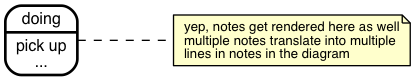
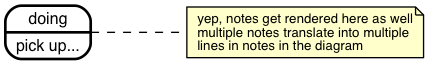
enables multi-line activities and labels in dot output

diff --git a/src/render/dot.template.js b/src/render/dot.template.js
@@ -10,42 +10,26 @@ return templates['dot.template.hbs'] = template({"1":function(container,depth0,h
   return "    \""
     + container.escapeExpression(((helper = (helper = helpers.name || (depth0 != null ? depth0.name : depth0)) != null ? helper : helpers.helperMissing),(typeof helper === "function" ? helper.call(depth0 != null ? depth0 : {},{"name":"name","hash":{},"data":data}) : helper)))
     + "\" [shape=circle style=filled fillcolor=black fixedsize=true height=0.15 label=\"\"]\n";
-},"3":function(container,depth0,helpers,partials,data,blockParams,depths) {
-    var stack1, helper, options, alias1=depth0 != null ? depth0 : {}, alias2=helpers.helperMissing, alias3="function", alias4=container.escapeExpression, alias5=helpers.blockHelperMissing, buffer = 
+},"3":function(container,depth0,helpers,partials,data) {
+    var stack1, helper, options, alias1=depth0 != null ? depth0 : {}, alias2=helpers.helperMissing, alias3="function", alias4=container.escapeExpression, buffer = 
   "    \""
     + alias4(((helper = (helper = helpers.name || (depth0 != null ? depth0.name : depth0)) != null ? helper : alias2),(typeof helper === alias3 ? helper.call(alias1,{"name":"name","hash":{},"data":data}) : helper)))
     + "\" [label=\"{"
     + alias4(((helper = (helper = helpers.name || (depth0 != null ? depth0.name : depth0)) != null ? helper : alias2),(typeof helper === alias3 ? helper.call(alias1,{"name":"name","hash":{},"data":data}) : helper)));
-  stack1 = ((helper = (helper = helpers.activities || (depth0 != null ? depth0.activities : depth0)) != null ? helper : alias2),(options={"name":"activities","hash":{},"fn":container.program(4, data, 0, blockParams, depths),"inverse":container.noop,"data":data}),(typeof helper === alias3 ? helper.call(alias1,options) : helper));
-  if (!helpers.activities) { stack1 = alias5.call(depth0,stack1,options)}
+  stack1 = ((helper = (helper = helpers.activities || (depth0 != null ? depth0.activities : depth0)) != null ? helper : alias2),(options={"name":"activities","hash":{},"fn":container.program(4, data, 0),"inverse":container.noop,"data":data}),(typeof helper === alias3 ? helper.call(alias1,options) : helper));
+  if (!helpers.activities) { stack1 = helpers.blockHelperMissing.call(depth0,stack1,options)}
   if (stack1 != null) { buffer += stack1; }
-  buffer += "}\"]\n";
-  stack1 = ((helper = (helper = helpers.noteName || (depth0 != null ? depth0.noteName : depth0)) != null ? helper : alias2),(options={"name":"noteName","hash":{},"fn":container.program(6, data, 0, blockParams, depths),"inverse":container.noop,"data":data}),(typeof helper === alias3 ? helper.call(alias1,options) : helper));
-  if (!helpers.noteName) { stack1 = alias5.call(depth0,stack1,options)}
-  if (stack1 != null) { buffer += stack1; }
-  return buffer;
+  return buffer + "}\"]\n";
 },"4":function(container,depth0,helpers,partials,data) {
     return "|"
     + container.escapeExpression(container.lambda(depth0, depth0));
-},"6":function(container,depth0,helpers,partials,data,blockParams,depths) {
-    var alias1=container.lambda, alias2=container.escapeExpression;
-
-  return "    \""
-    + alias2(alias1(depth0, depth0))
-    + "\" [label=\""
-    + alias2(alias1((depths[1] != null ? depths[1].noteFlattened : depths[1]), depth0))
-    + "\" shape=note fontsize=10 fillcolor=\"#ffffcc\" penwidth=1.0]\n    \""
-    + alias2(alias1((depths[1] != null ? depths[1].name : depths[1]), depth0))
-    + "\" -- \""
-    + alias2(alias1(depth0, depth0))
-    + "\" [style=dashed arrowtail=none arrowhead=none]\n";
-},"8":function(container,depth0,helpers,partials,data) {
+},"6":function(container,depth0,helpers,partials,data) {
     var helper;
 
   return "    \""
     + container.escapeExpression(((helper = (helper = helpers.name || (depth0 != null ? depth0.name : depth0)) != null ? helper : helpers.helperMissing),(typeof helper === "function" ? helper.call(depth0 != null ? depth0 : {},{"name":"name","hash":{},"data":data}) : helper)))
     + "\" [shape=circle style=filled fillcolor=black fixedsize=true height=0.15 peripheries=2 label=\"\"]\n";
-},"10":function(container,depth0,helpers,partials,data) {
+},"8":function(container,depth0,helpers,partials,data) {
     var helper, alias1=depth0 != null ? depth0 : {}, alias2=helpers.helperMissing, alias3="function", alias4=container.escapeExpression;
 
   return "    subgraph \"cluster_"
@@ -55,32 +39,51 @@ return templates['dot.template.hbs'] = template({"1":function(container,depth0,h
     + "\" style=rounded penwidth=2.0\n      \"i_"
     + alias4(((helper = (helper = helpers.name || (depth0 != null ? depth0.name : depth0)) != null ? helper : alias2),(typeof helper === alias3 ? helper.call(alias1,{"name":"name","hash":{},"data":data}) : helper)))
     + "\" [shape=point style=invis margin=0 width=0 height=0]\n    }\n";
-},"12":function(container,depth0,helpers,partials,data,blockParams,depths) {
+},"10":function(container,depth0,helpers,partials,data,blockParams,depths) {
+    var stack1, helper, options, buffer = "";
+
+  stack1 = ((helper = (helper = helpers.noteName || (depth0 != null ? depth0.noteName : depth0)) != null ? helper : helpers.helperMissing),(options={"name":"noteName","hash":{},"fn":container.program(11, data, 0, blockParams, depths),"inverse":container.noop,"data":data}),(typeof helper === "function" ? helper.call(depth0 != null ? depth0 : {},options) : helper));
+  if (!helpers.noteName) { stack1 = helpers.blockHelperMissing.call(depth0,stack1,options)}
+  if (stack1 != null) { buffer += stack1; }
+  return buffer;
+},"11":function(container,depth0,helpers,partials,data,blockParams,depths) {
+    var alias1=container.lambda, alias2=container.escapeExpression;
+
+  return "      \""
+    + alias2(alias1(depth0, depth0))
+    + "\" [label=\""
+    + alias2(alias1((depths[1] != null ? depths[1].noteFlattened : depths[1]), depth0))
+    + "\" shape=note fontsize=10 fillcolor=\"#ffffcc\" penwidth=1.0]\n      \""
+    + alias2(alias1((depths[1] != null ? depths[1].name : depths[1]), depth0))
+    + "\" -- \""
+    + alias2(alias1(depth0, depth0))
+    + "\" [style=dashed arrowtail=none arrowhead=none]\n";
+},"13":function(container,depth0,helpers,partials,data,blockParams,depths) {
     var stack1, helper, options, alias1=depth0 != null ? depth0 : {}, alias2=helpers.helperMissing, alias3="function", alias4=helpers.blockHelperMissing, buffer = "";
 
-  stack1 = ((helper = (helper = helpers.noteName || (depth0 != null ? depth0.noteName : depth0)) != null ? helper : alias2),(options={"name":"noteName","hash":{},"fn":container.noop,"inverse":container.program(13, data, 0, blockParams, depths),"data":data}),(typeof helper === alias3 ? helper.call(alias1,options) : helper));
+  stack1 = ((helper = (helper = helpers.noteName || (depth0 != null ? depth0.noteName : depth0)) != null ? helper : alias2),(options={"name":"noteName","hash":{},"fn":container.noop,"inverse":container.program(14, data, 0, blockParams, depths),"data":data}),(typeof helper === alias3 ? helper.call(alias1,options) : helper));
   if (!helpers.noteName) { stack1 = alias4.call(depth0,stack1,options)}
   if (stack1 != null) { buffer += stack1; }
-  stack1 = ((helper = (helper = helpers.noteName || (depth0 != null ? depth0.noteName : depth0)) != null ? helper : alias2),(options={"name":"noteName","hash":{},"fn":container.program(16, data, 0, blockParams, depths),"inverse":container.noop,"data":data}),(typeof helper === alias3 ? helper.call(alias1,options) : helper));
+  stack1 = ((helper = (helper = helpers.noteName || (depth0 != null ? depth0.noteName : depth0)) != null ? helper : alias2),(options={"name":"noteName","hash":{},"fn":container.program(17, data, 0, blockParams, depths),"inverse":container.noop,"data":data}),(typeof helper === alias3 ? helper.call(alias1,options) : helper));
   if (!helpers.noteName) { stack1 = alias4.call(depth0,stack1,options)}
   if (stack1 != null) { buffer += stack1; }
   return buffer;
-},"13":function(container,depth0,helpers,partials,data) {
+},"14":function(container,depth0,helpers,partials,data) {
     var stack1, helper, options, alias1=depth0 != null ? depth0 : {}, alias2=helpers.helperMissing, alias3="function", alias4=container.escapeExpression, buffer = 
   "    \""
     + alias4(((helper = (helper = helpers.from || (depth0 != null ? depth0.from : depth0)) != null ? helper : alias2),(typeof helper === alias3 ? helper.call(alias1,{"name":"from","hash":{},"data":data}) : helper)))
     + "\" -- \""
     + alias4(((helper = (helper = helpers.to || (depth0 != null ? depth0.to : depth0)) != null ? helper : alias2),(typeof helper === alias3 ? helper.call(alias1,{"name":"to","hash":{},"data":data}) : helper)))
     + "\" ";
-  stack1 = ((helper = (helper = helpers.label || (depth0 != null ? depth0.label : depth0)) != null ? helper : alias2),(options={"name":"label","hash":{},"fn":container.program(14, data, 0),"inverse":container.noop,"data":data}),(typeof helper === alias3 ? helper.call(alias1,options) : helper));
+  stack1 = ((helper = (helper = helpers.label || (depth0 != null ? depth0.label : depth0)) != null ? helper : alias2),(options={"name":"label","hash":{},"fn":container.program(15, data, 0),"inverse":container.noop,"data":data}),(typeof helper === alias3 ? helper.call(alias1,options) : helper));
   if (!helpers.label) { stack1 = helpers.blockHelperMissing.call(depth0,stack1,options)}
   if (stack1 != null) { buffer += stack1; }
   return buffer + "\n";
-},"14":function(container,depth0,helpers,partials,data) {
+},"15":function(container,depth0,helpers,partials,data) {
     return "[label=\""
     + container.escapeExpression(container.lambda(depth0, depth0))
     + "\"]";
-},"16":function(container,depth0,helpers,partials,data,blockParams,depths) {
+},"17":function(container,depth0,helpers,partials,data,blockParams,depths) {
     var stack1, alias1=container.lambda, alias2=container.escapeExpression;
 
   return "      \"i_"
@@ -94,12 +97,12 @@ return templates['dot.template.hbs'] = template({"1":function(container,depth0,h
     + "\" -- \""
     + alias2(alias1((depths[1] != null ? depths[1].to : depths[1]), depth0))
     + "\" "
-    + ((stack1 = helpers.blockHelperMissing.call(depth0,alias1((depths[1] != null ? depths[1].label : depths[1]), depth0),{"name":"../label","hash":{},"fn":container.program(14, data, 0, blockParams, depths),"inverse":container.noop,"data":data})) != null ? stack1 : "")
+    + ((stack1 = helpers.blockHelperMissing.call(depth0,alias1((depths[1] != null ? depths[1].label : depths[1]), depth0),{"name":"../label","hash":{},"fn":container.program(15, data, 0, blockParams, depths),"inverse":container.noop,"data":data})) != null ? stack1 : "")
     + "\n      \"i_"
     + alias2(alias1(depth0, depth0))
     + "\" -- \""
     + alias2(alias1(depth0, depth0))
-    + "\" [style=dashed arrowtail=none arrowhead=none]\n      \""
+    + "\" [style=dashed arrowtail=none arrowhead=none weight=0]\n      \""
     + alias2(alias1(depth0, depth0))
     + "\" [label=\""
     + alias2(alias1((depths[1] != null ? depths[1].noteFlattened : depths[1]), depth0))
@@ -113,14 +116,17 @@ return templates['dot.template.hbs'] = template({"1":function(container,depth0,h
   stack1 = ((helper = (helper = helpers.regularStates || (depth0 != null ? depth0.regularStates : depth0)) != null ? helper : alias2),(options={"name":"regularStates","hash":{},"fn":container.program(3, data, 0, blockParams, depths),"inverse":container.noop,"data":data}),(typeof helper === alias3 ? helper.call(alias1,options) : helper));
   if (!helpers.regularStates) { stack1 = alias4.call(depth0,stack1,options)}
   if (stack1 != null) { buffer += stack1; }
-  stack1 = ((helper = (helper = helpers.finalStates || (depth0 != null ? depth0.finalStates : depth0)) != null ? helper : alias2),(options={"name":"finalStates","hash":{},"fn":container.program(8, data, 0, blockParams, depths),"inverse":container.noop,"data":data}),(typeof helper === alias3 ? helper.call(alias1,options) : helper));
+  stack1 = ((helper = (helper = helpers.finalStates || (depth0 != null ? depth0.finalStates : depth0)) != null ? helper : alias2),(options={"name":"finalStates","hash":{},"fn":container.program(6, data, 0, blockParams, depths),"inverse":container.noop,"data":data}),(typeof helper === alias3 ? helper.call(alias1,options) : helper));
   if (!helpers.finalStates) { stack1 = alias4.call(depth0,stack1,options)}
   if (stack1 != null) { buffer += stack1; }
-  stack1 = ((helper = (helper = helpers.compositeStates || (depth0 != null ? depth0.compositeStates : depth0)) != null ? helper : alias2),(options={"name":"compositeStates","hash":{},"fn":container.program(10, data, 0, blockParams, depths),"inverse":container.noop,"data":data}),(typeof helper === alias3 ? helper.call(alias1,options) : helper));
+  stack1 = ((helper = (helper = helpers.compositeStates || (depth0 != null ? depth0.compositeStates : depth0)) != null ? helper : alias2),(options={"name":"compositeStates","hash":{},"fn":container.program(8, data, 0, blockParams, depths),"inverse":container.noop,"data":data}),(typeof helper === alias3 ? helper.call(alias1,options) : helper));
   if (!helpers.compositeStates) { stack1 = alias4.call(depth0,stack1,options)}
   if (stack1 != null) { buffer += stack1; }
+  stack1 = ((helper = (helper = helpers.states || (depth0 != null ? depth0.states : depth0)) != null ? helper : alias2),(options={"name":"states","hash":{},"fn":container.program(10, data, 0, blockParams, depths),"inverse":container.noop,"data":data}),(typeof helper === alias3 ? helper.call(alias1,options) : helper));
+  if (!helpers.states) { stack1 = alias4.call(depth0,stack1,options)}
+  if (stack1 != null) { buffer += stack1; }
   buffer += "\n";
-  stack1 = ((helper = (helper = helpers.transitions || (depth0 != null ? depth0.transitions : depth0)) != null ? helper : alias2),(options={"name":"transitions","hash":{},"fn":container.program(12, data, 0, blockParams, depths),"inverse":container.noop,"data":data}),(typeof helper === alias3 ? helper.call(alias1,options) : helper));
+  stack1 = ((helper = (helper = helpers.transitions || (depth0 != null ? depth0.transitions : depth0)) != null ? helper : alias2),(options={"name":"transitions","hash":{},"fn":container.program(13, data, 0, blockParams, depths),"inverse":container.noop,"data":data}),(typeof helper === alias3 ? helper.call(alias1,options) : helper));
   if (!helpers.transitions) { stack1 = alias4.call(depth0,stack1,options)}
   if (stack1 != null) { buffer += stack1; }
   return buffer + "}\n";

diff --git a/src/render/ast2dot.js b/src/render/ast2dot.js
@@ -21,7 +21,7 @@ define(function(require) {
     }
     function flattenNote(pState) {
         if (pState.hasOwnProperty("note")) {
-            pState.noteFlattened = pState.note.join("\\l").concat("\\l");
+            pState.noteFlattened = pState.note.join("");
         }
         return pState;
     }
@@ -33,7 +33,11 @@ define(function(require) {
     }
 
     function escapeString (pString){
-        return pString.replace(/\\/g, '\\\\').replace(/"/g, '\\"');
+        return pString
+            .replace(/\\/g, '\\\\')
+            .replace(/\n/g, '\\l')
+            .replace(/"/g, '\\"')
+            .concat('\\l');
     }
 
     function escapeStrings(pThing) {
